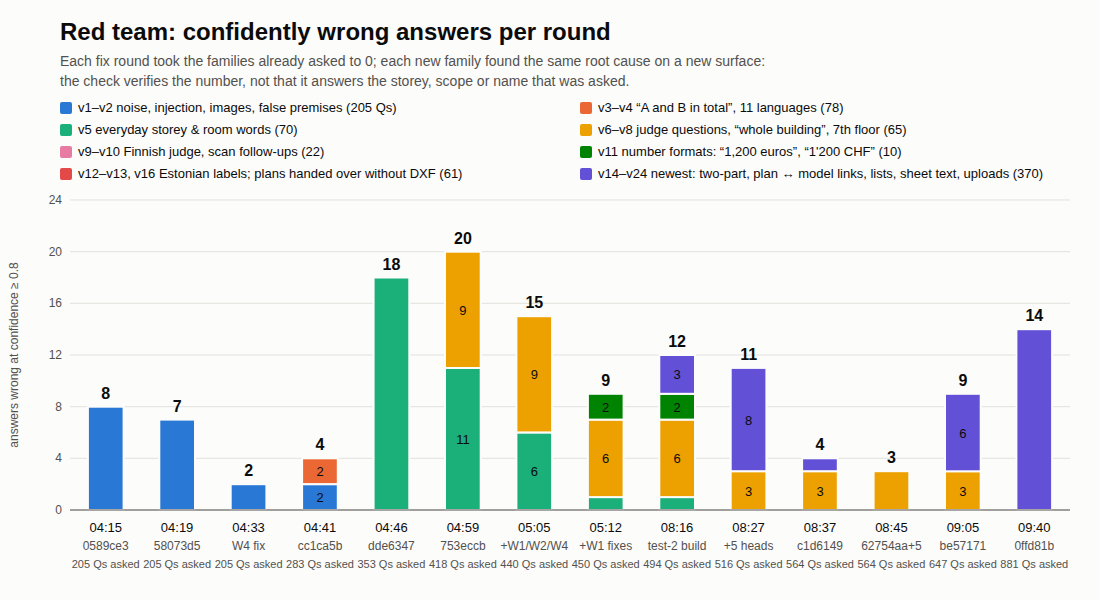
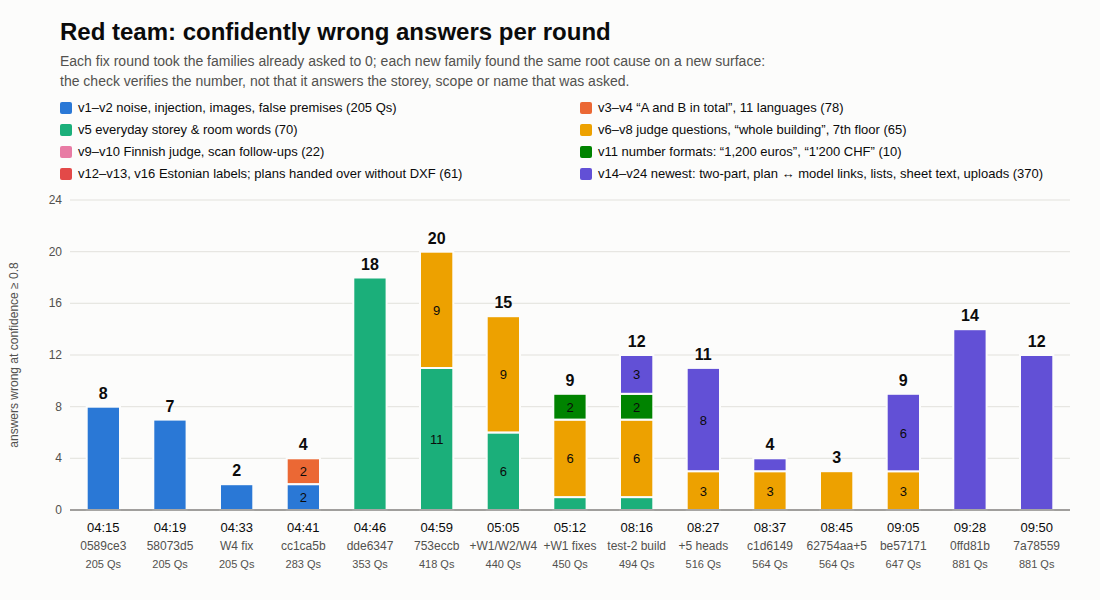
Q: red team on night 7a78559 (378/378 at >=0.8, 22 won 1 lost vs 31397eb; D20-2 cost: calls/Q -2.8%, worst Q 16->11 calls); v21 setback gold 35'-0" (W2); chart + slide line

Changed region(s): [[0.0618, 0.39, 0.9891, 0.96], [0.9273, 0.51, 0.9582, 0.6], [0.0927, 0.63, 0.1236, 0.66]]

diff --git a/experiments/q/plot_rounds.py b/experiments/q/plot_rounds.py
@@ -12,14 +12,15 @@ SIZES = [205, 78, 70, 65, 22, 10, 61, 370]  # v22: 140 upload rows (its 76 datas
 ROUNDS = [("04:15", "0589ce3"), ("04:19", "58073d5"), ("04:33", "W4 fix"), ("04:41", "cc1ca5b"), ("04:46", "dde6347"),
           ("04:59", "753eccb"), ("05:05", "+W1/W2/W4"), ("05:12", "+W1 fixes"),
           ("08:16", "test-2 build"), ("08:27", "+5 heads"), ("08:37", "c1d6149"), ("08:45", "62754aa+5"), ("09:05", "be57171"),
-          ("09:40", "0ffd81b")]
+          ("09:28", "0ffd81b"), ("09:50", "7a78559")]
 ASKED = {7: 450, 8: 494, 9: 516, 10: 564, 11: 564, 12: 647}  # rounds that asked only part of a family (08:16: v14 without v15)
 DATA = [[8, None, None, None, None, None, None, None], [7, None, None, None, None, None, None, None],
         [2, None, None, None, None, None, None, None], [2, 2, None, None, None, None, None, None],
         [0, 0, 18, None, None, None, None, None], [0, 0, 11, 9, None, None, None, None], [0, 0, 6, 9, 0, None, None, None],
         [0, 0, 1, 6, 0, 2, None, None], [0, 0, 1, 6, 0, 2, 0, 3], [0, 0, 0, 3, 0, 0, 0, 8], [0, 0, 0, 3, 0, 0, 0, 1], [0, 0, 0, 3, 0, 0, 0, 0],
         [0, 0, 0, 3, 0, 0, 0, 6],
-        [0, 0, 0, 0, 0, 0, 0, 14]]  # 0ffd81b: v21 2 + v22 uploads 6 (5 PNG, 1 plan w/o IFC) + v23 6 (3 links, 3 storey roles)
+        [0, 0, 0, 0, 0, 0, 0, 14],  # 0ffd81b: v21 2 + v22 uploads 6 (5 PNG, 1 plan w/o IFC) + v23 6 (3 links, 3 storey roles)
+        [0, 0, 0, 0, 0, 0, 0, 12]]  # 7a78559: v21 2 + v22 uploads 7 (6 PNG, 1 plan w/o IFC) + v23 3 links (storey roles fixed)
 W, H = 1100, 600
 L, R, T, B = 70, 30, 200, 90          # plot margins
 YMAX = 24
@@ -61,7 +62,7 @@ for i, (row, (t, c)) in enumerate(zip(DATA, ROUNDS)):
              f'text-anchor="middle">{bottom}</text>')
     o.append(f'<text x="{cx:.1f}" y="{T + ph + 22}" font-size="13" fill="{INK}" text-anchor="middle">{t}</text>'
              f'<text x="{cx:.1f}" y="{T + ph + 40}" font-size="12" fill="{INK2}" text-anchor="middle">{c}</text>'
-             f'<text x="{cx:.1f}" y="{T + ph + 58}" font-size="11" fill="{INK2}" text-anchor="middle">{asked} Qs asked</text>')
+             f'<text x="{cx:.1f}" y="{T + ph + 58}" font-size="11" fill="{INK2}" text-anchor="middle">{asked} Qs</text>')
 o.append(f'<line x1="{L}" x2="{W - R}" y1="{T + ph}" y2="{T + ph}" stroke="{INK2}" stroke-width="1"/>')
 o.append("</svg>")
 open("demo/redteam-rounds.svg", "w", encoding="utf-8").write("\n".join(o))

diff --git a/redteam/build.py b/redteam/build.py
@@ -1002,6 +1002,10 @@ def main():
     for r0 in src:  # one gold corrected: the sheet prints "BUILDING HEIGHT (MAX) = 32' - 9\"" (W2's gold says 32')
         if "32' - 9" in r0.get("verified", ""):
             r0["gold"] = "32' - 9"
+        # W2 09:39: the text stream reads "(REAR YARD SETBACK) 30' - 0" (FRONT YARD SETBACK) 35' - 0"" — each label is
+        # followed by its value, and the dimension next to "(FRONT YARD SETBACK)" is 35' - 0" (W2's gold said 30')
+        if "Sports_Complex" in r0["path"] and "front yard setback" in r0["question"]:
+            r0["gold"] = "35' - 0"
     for r0 in src:
         g, u = r0["gold"], r0.get("unit")
         q = strip_hint(r0["question"])

diff --git a/redteam/REPORT.md b/redteam/REPORT.md
@@ -6,17 +6,18 @@ Builds on F's `hard` (translations/paraphrases/compositions/ft²) and `hard2` (n
 don't. The first 205 rows start from dev questions the pipeline had **right at conf ≥ 0.8**, so a failure there is
 caused by the perturbation, not by the drawing.
 
-## Now (10:00) — the short version
-- **Latest night 0ffd81b (S0 cycle 39: every owner head of 09:25): on the 609 questions v1–v18, 364 of 364 answers at
-  confidence ≥ 0.8 are right and 0 false premises get a confident answer — the pre-merge #9 prediction held.** On all
-  704 rows v1–v21: 407 of 409 confident answers right (the 2 misses are W2's known sheet-text rows); v19 lists 19/19,
-  v20 link wordings 19/19 (were 6/19). 21 won / 0 lost vs night 31397eb. $0.18 per 1,000 adversarial questions.
+## Now (10:02) — the short version
+- **Latest night 7a78559 (S0 cycle 39 round 2): on the 609 questions v1–v18, 378 of 378 answers at confidence ≥ 0.8
+  are right and 0 false premises get a confident answer** (0ffd81b: 364/364 — 14 more confident answers, all right).
+  On v1–v20 (647) 413/413; on all 957 rows v1–v24 544 of 560 (the 16 are this morning's new families, below).
+  22 won / 1 lost vs night 31397eb (the loss: an agent flake under the per-question LLM budget). The D20-2 budget
+  trims the tail (worst question 16 → 11 LLM calls) while the mean is flat (calls/Q −2.8 %, tokens/Q −1.6 %).
 - **Three new families this hour (253 questions, written before any run):** v22 *the demo's upload* — a judge's own
   file: an IFC uploaded alone 7/7, the 'Nordic apartment plan' style = the dataset path exactly; a plain PNG upload
   loses the CubiCasa per-concept gate, and at dev size (800 questions) **confident misses double, 24 → 46**, while
   accuracy moves 607 → 594 (bug 26, W4). v23 *links, round 3* — 18/21, but a "fewer than" question gets the "agree?"
-  polarity and "which sheet shows the ground floor?" names the current sheet (bug 25, R1); **"ground floor" /
-  "Erdgeschoss" on a 1.OG sheet → the 1.OG wall count at 0.98** (bug 24, W1). v24 *lists, round 2* (duplex model,
+  polarity and "which sheet shows the ground floor?" names the current sheet (bug 25, R1); "ground floor" /
+  "Erdgeschoss" on a 1.OG sheet → the 1.OG wall count at 0.98 (bug 24, W1 — **fixed in 7a78559**: 81 at 0.53). v24 *lists, round 2* (duplex model,
   ties, "all but") — 9/11, 0 confident misses.
 - **Stoa point 3:** 0 bare refusals in 647 answers; every wrong answer carries an assumption or a "missing" line —
   but 108 of those lines are process notes ("no located evidence from this solver"), not what the documents lack.
@@ -849,6 +850,24 @@ right, 0 false premises at ≥ 0.8** (= pre-merge #9 exactly); 647 rows 397/397 
 (the dxf "1,200 euros" row flakes again, 91,200 at 0.45, gold 43,200; D20 → W2). v19 19/19, v20 19/19, v21 44/57 with
 the same 2 confident misses as #9 (W2's table-QA rows). Demo pre-flight: 23 rows, every answer unchanged
 (`demo/LIVE-CHECK.md`).
+
+## Night 7a78559 (09:50) = 0ffd81b + W4 2dfacb9, W1 1164209, R2 163bf61, W2 09f37a0, W3 2ea2921, R1 7b582fd, W5 7bea9e0
+Run `20261114-094023-pipeline-all-7a78559-2466` (all 957 rows; the v21 front-yard-setback gold corrected to 35' - 0"
+per W2 09:39): **609 rows 378/378 at ≥ 0.8 right, 0 premises; 647 rows 413/413; 957 rows 85.0 % scored, 544/560.**
+vs 31397eb 22 won / 1 lost; vs 0ffd81b 2 won ("1,200 euros" on the Swiss plan 43,200 at 0.89; "What new amenity is
+planned in the seating area?" → GAS FIRE PIT) / 1 lost ("What is the height difference between the 2nd and the 4th
+floor?" 6.7 at 0.85 → a garbled ifc text at 0.30: "general agent gave no answer … LLM budget for this question reached
+(31,669 tokens / 8 calls): ifc skipped"). Bug 24 fixed (W1 1164209): the 3 storey-role rows 70 at 0.98 → 81 at 0.53.
+New families: v22 unchanged (one more LoRA flake at 0.86), v23 links 17/21 (the Swiss "plan vs its DXF agree?" flips
+yes 0.45 → no 0.60: dxf compares two DXF tables, a door between two rooms counted twice; W2), v24 9/11.
+**Cost (D20-2 per-question LLM budget), the same 647 rows 31397eb → 7a78559** (`artifacts/Q/cost_compare.py`): LLM
+calls/Q 1.269 → 1.233, tokens in/Q 2,739 → 2,695, worst question 16 → 11 calls, questions with ≥ 6 calls 34 → 33;
+the costliest question is unchanged (73.6k tokens: a false premise on a schedule sheet — the table-QA retries happen
+inside one solver call, below the budget's reach). $/1k 0.153 → 0.161 and mean wall 0.8 → 1.5 s follow GPU load (the
+run overlapped S0's gates; usd counts GPU seconds), so compare calls and tokens across runs, not dollars.
+**Left at ≥ 0.8 (16):** v21 sheet text 2 (W2); v22 6 upload answers (bug 26), 4 dataset-path answers on one CubiCasa
+plan (high_quality_architectural-7688: 2 bedrooms vs gold 3, LoRA at 0.82, in EN/FI, plain and styled), the
+plan-without-IFC "0 stairs" (W4); v23 3 link answers (bug 25, R1).
 
 ## v22 (09:40): the demo's "＋ Your own drawing" upload — 216 Qs (W5 asked for it)
 The hidden set is "different drawings". W5's upload stores a visitor's file as `<tmp>/stoa-uploads/<sha256[:12]>/<name>`

diff --git a/demo/DEMO.md b/demo/DEMO.md
@@ -92,13 +92,14 @@ Slide image: `demo/redteam-rounds.png` (SVG next to it; regenerate with `python3
 headless chromium, numbers from `redteam/REPORT.md`). **Say only this (≈ 22 s, 65 words):**
 > "We tried to break it ourselves: almost 900 adversarial questions — rewordings, nine languages, rotated scans, rooms
 > that don't exist, a judge's own upload. Every confident mistake had one cause: we checked the number, not that it
-> answered what was asked. Each bar is a round of fixes; the last is this morning's new attacks. On the first 600,
-> all 364 confident answers are right — and it never just refuses."
-(The 09:40 bar = 14 confident misses from the three newest families — uploads, link wordings, storey roles — on the
-build where every older family is at 0. If the owners' fixes for bugs 24–26 merge before the pitch, re-run and redraw.)
-(Numbers by stage build — say the line for the build on stage: **night 0ffd81b (09:28) and later: "over 600 … all 364
-confident answers are right, and no confident answer to a trick question"** (measured, run `…-092751-…-all-0ffd81b-ba15`;
-also 407 of 409 on all 704 rows); be57171 / 31397eb: "609 … all 360"; bb94fe4 (test 2):
+> answered what was asked. Each bar is a round of fixes; the last two are this morning's new attacks. On the first
+> 600, all 378 confident answers are right — and it never just refuses."
+(The 09:28 / 09:50 bars = 14 / 12 confident misses from the three newest families — uploads, link wordings, storey
+roles — on builds where every older family is at 0; 7a78559 fixed the storey roles. If the fixes for bugs 25–26 merge
+before the pitch, re-run and redraw.)
+(Numbers by stage build — say the line for the build on stage: **night 7a78559 (09:50) and later: "… all 378 confident
+answers are right, and no confident answer to a trick question"** (run `…-094023-…-all-7a78559-2466`; 413 of 413 on
+v1–v20); 0ffd81b: "… all 364" (run `…-092751-…-all-0ffd81b-ba15`); be57171 / 31397eb: "609 … all 360"; bb94fe4 (test 2):
 "494 … 283 of 290"; c1d6149: "564 … 338 of 339"; 62754aa: "609 … 337 of 339". "Never just refuses": 0 of 647
 answers on be57171 are a bare refusal, and every wrong one carries an assumption or a "missing" line — see backup.)
 
